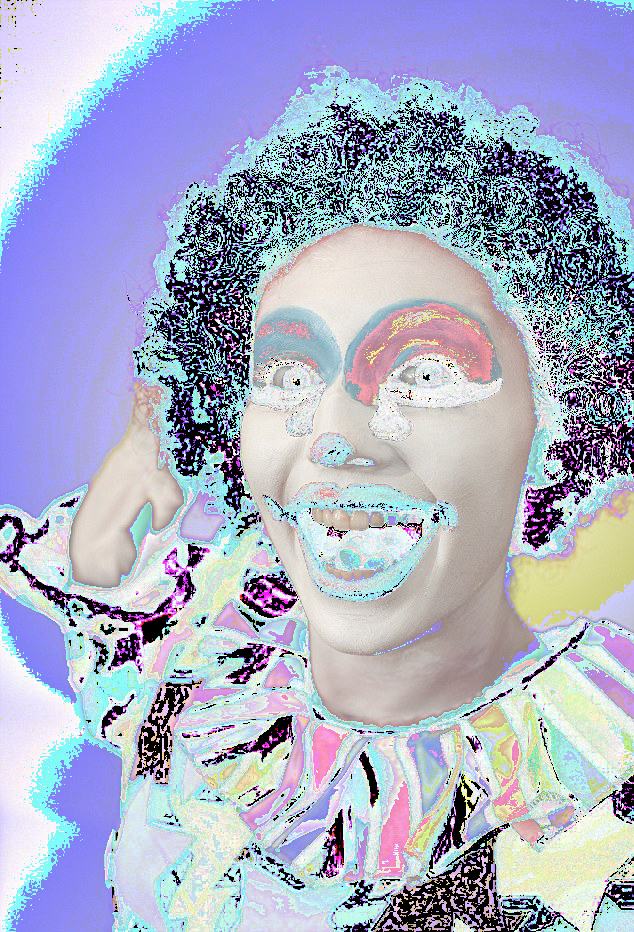
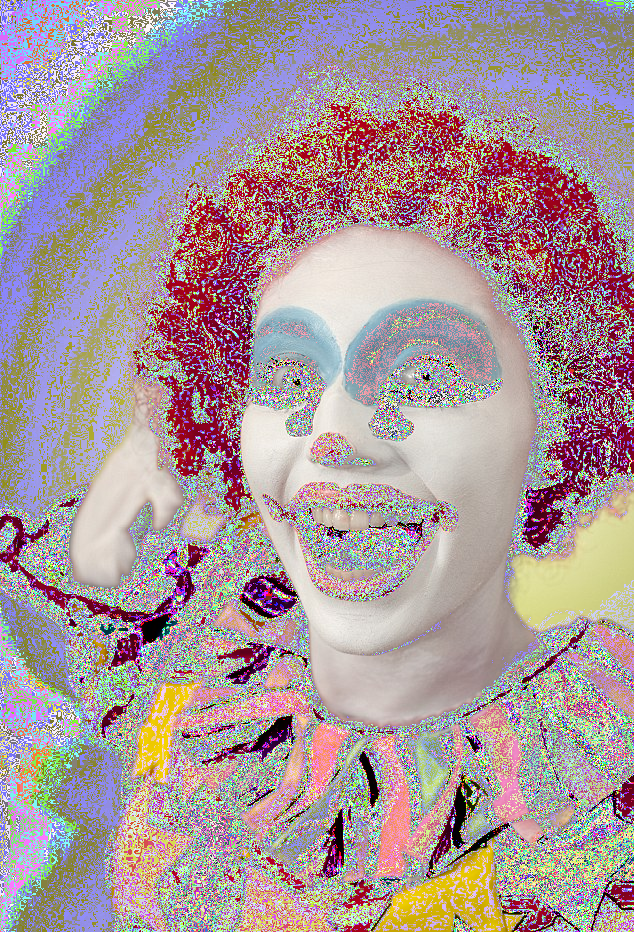
lcm works

diff --git a/steganography-compression/src/python/imgtopix.py b/steganography-compression/src/python/imgtopix.py
@@ -4,20 +4,24 @@ from functools import reduce
 from math import gcd
 
 def lcm(x,y):
-    try:
+    if(x==0) or (y==0):
+        if(x>y):
+            lcm=x
+        else:
+            lcm=y
+       
+    else:
         if(x>y):
             greater = x
         else:
             greater = y
+        
         while(True):
             if((greater%x==0) and (greater%y==0)):
                 lcm=greater
                 break
             greater=greater+1
-        return lcm
-    except:
-        print("")
-    
+    return lcm
 
 
 one=Image.open('testimage.jpg')
@@ -31,14 +35,9 @@ def manipulation(first, second):
         for y in range(height):
             r,g,b =first.getpixel((x,y))
             r1,g1,b1= second.getpixel((x,y))
-            if(r==0) or (g==0) or (b==0):
-                r_=0
-                b_=0
-                g_=0
-            else:
-                r_=r1*r
-                g_=g1*g
-                b_=b1*b
+            r_=lcm(r,r1)
+            g_=lcm(g,g1)
+            b_=lcm(b,b1)
 
             new_pixel=(int(r_),int(g_),int(b_))
             new_image.putpixel((x,y),new_pixel)
